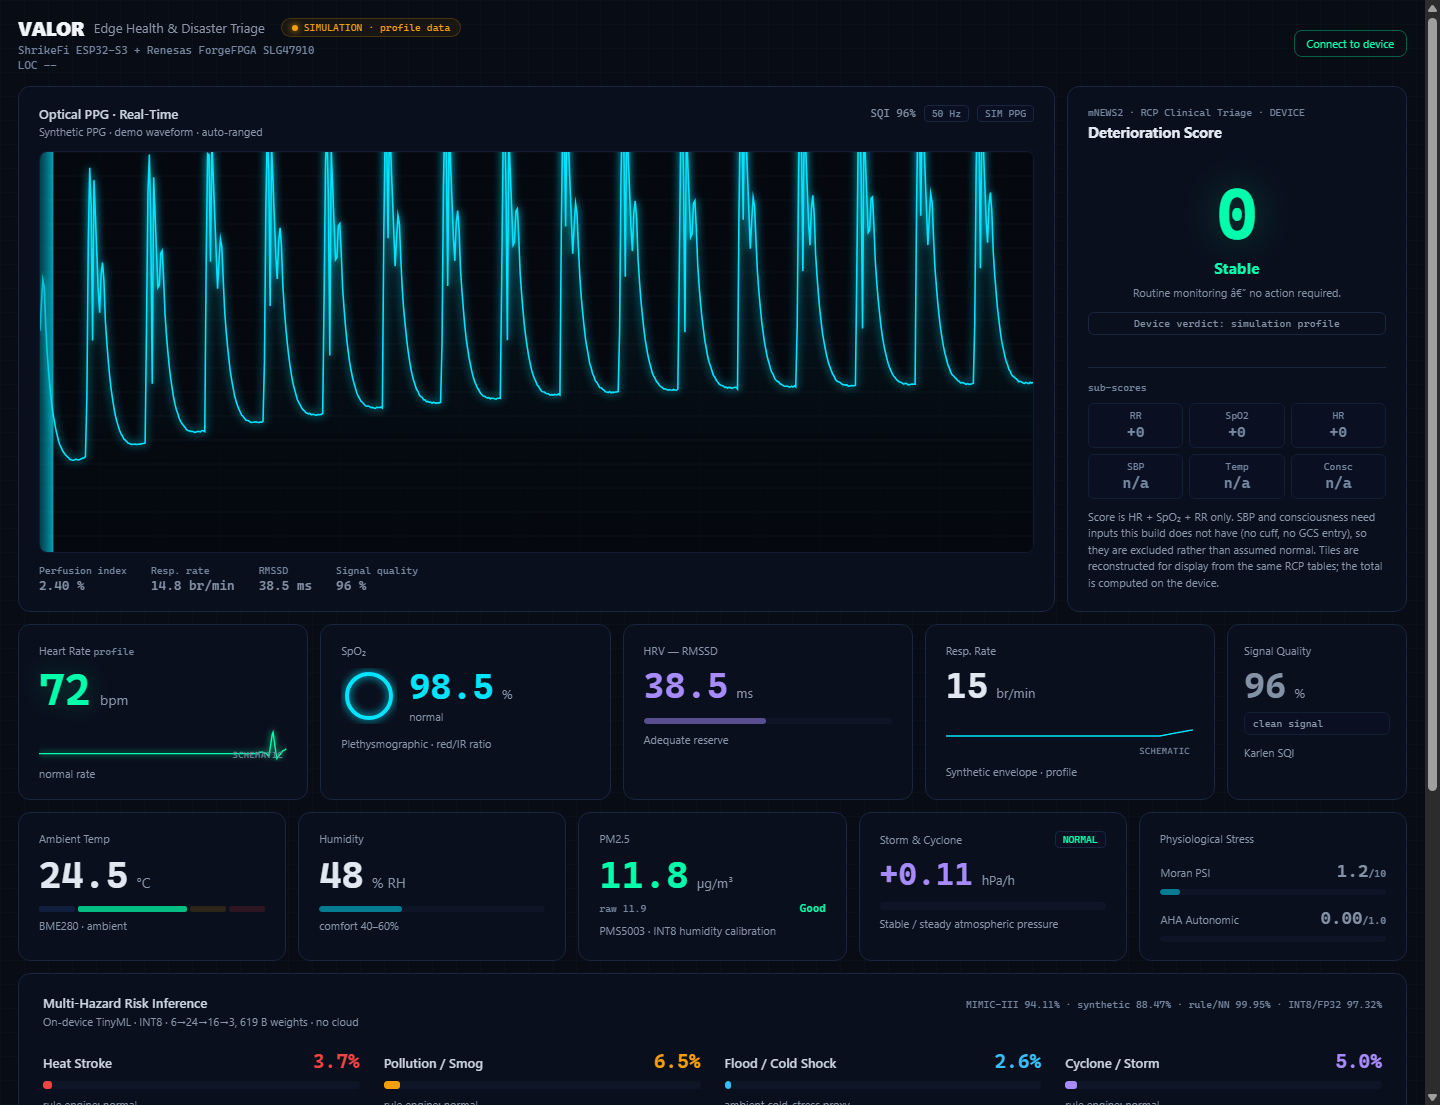
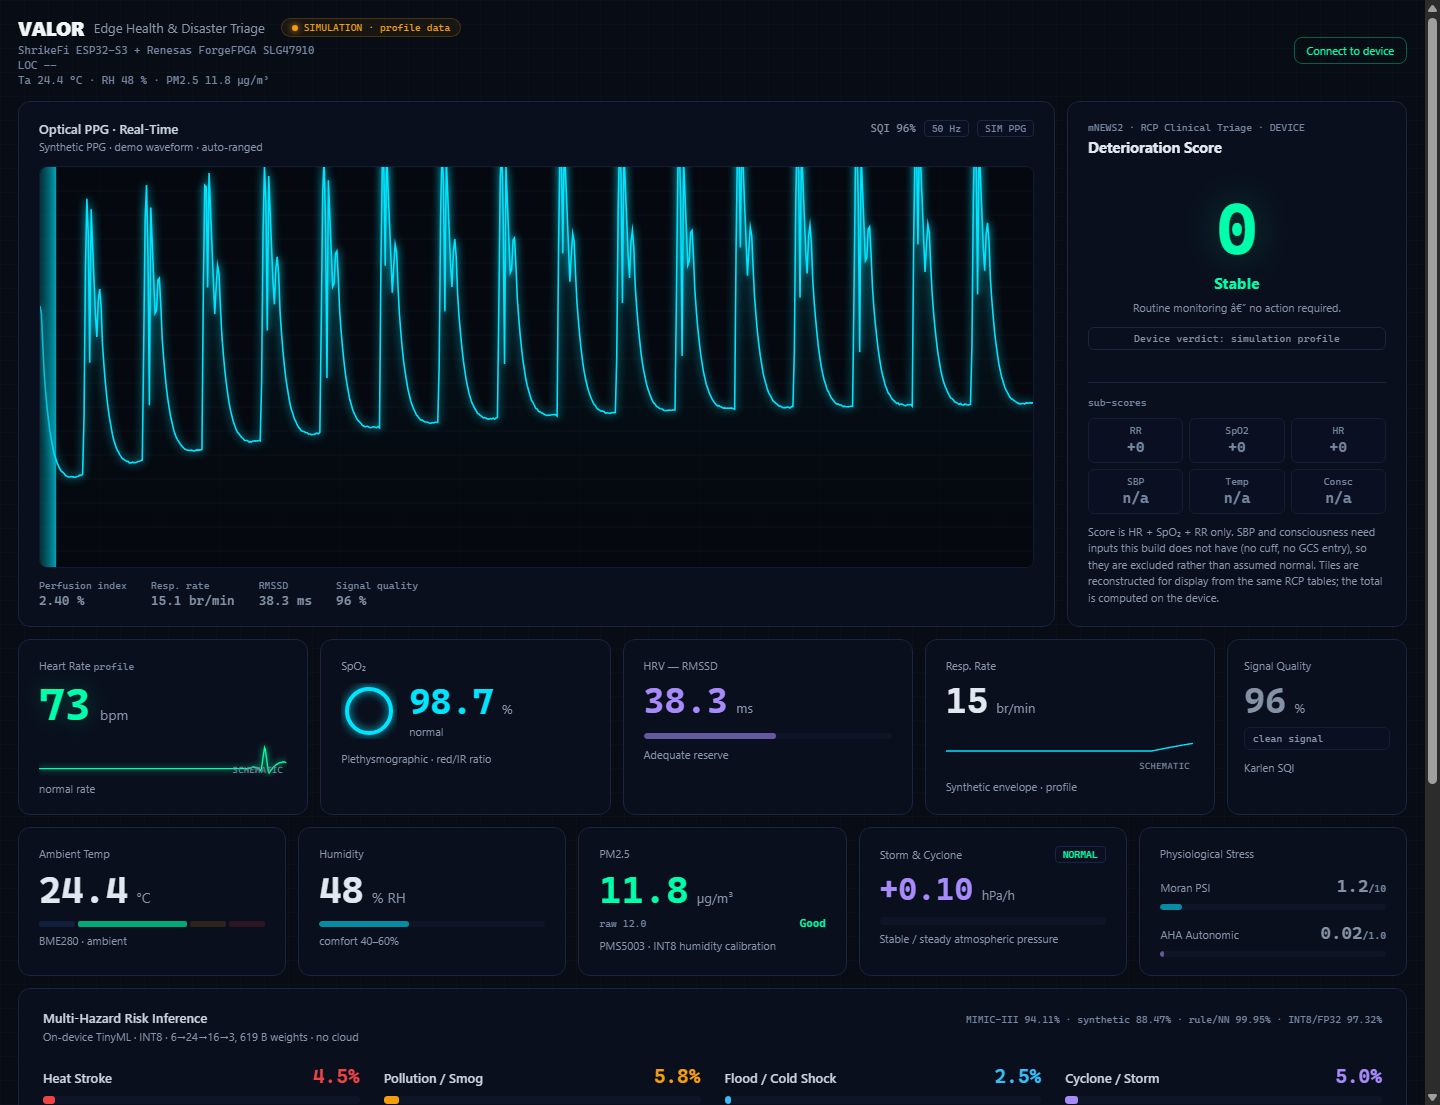
fix(dashboard): keep environment visible without contact
The firmware sends normal telemetry with HR=0 when ambient sensors are valid, so infer contact from a real pulse/SQI rather than packet presence. Add a compact Ta/RH/PM2.5 header strip and put those values in the no-contact scope overlay, so the environmental readings remain visible when the full cards are below the fold. Add an ambient no-finger regression case and regenerate screenshots.

diff --git a/firmware/shrikefi/dashboard/valor_dashboard.html b/firmware/shrikefi/dashboard/valor_dashboard.html
@@ -3,7 +3,7 @@
 <head>
 <meta charset="UTF-8">
 <meta name="viewport" content="width=device-width, initial-scale=1">
-<meta http-equiv="Content-Security-Policy" content="default-src 'none'; script-src 'sha256-mglj+asDTPrV0DS4ABjj38s7ah6EJvG1LTV9+BrB4Ms='; style-src 'unsafe-inline'; connect-src 'self'; form-action 'self'; base-uri 'none'; object-src 'none'">
+<meta http-equiv="Content-Security-Policy" content="default-src 'none'; script-src 'sha256-A1HRmsD2lRZmOHktdqXcePeSnKUdaW+9ZrS9CiJ2fF4='; style-src 'unsafe-inline'; connect-src 'self'; form-action 'self'; base-uri 'none'; object-src 'none'">
 <title>VALOR â€” Edge Health &amp; Disaster Triage</title>
 <!--
   VALOR dashboard â€” single self-contained file.
@@ -195,6 +195,8 @@
   .unit { font-size: 13px; color: var(--text-dim); margin-left: 4px; }
 
   /* â”€â”€ NEWS2 â”€â”€â”€â”€â”€â”€â”€â”€â”€â”€â”€â”€â”€â”€â”€â”€â”€â”€â”€â”€â”€â”€â”€â”€â”€â”€â”€â”€â”€â”€â”€â”€â”€â”€â”€â”€â”€â”€â”€â”€â”€â”€â”€â”€â”€â”€â”€â”€â”€â”€â”€â”€â”€â”€â”€â”€ */
+  .news2-card { padding: 20px; display: flex; flex-direction: column; gap: 16px; }
+  .news2-hero { text-align: center; padding: 20px 0 16px; }
   .news2-score { font-family: var(--mono); font-size: 72px; font-weight: 900; line-height: 1; }
   .news2-label { margin-top: 8px; font-size: 15px; font-weight: 700; letter-spacing: 0.02em; }
   .news2-sub   { margin-top: 6px; font-size: 11px; color: var(--text-mid); line-height: 1.6; padding: 0 8px; }
@@ -254,6 +256,21 @@
     }
   }
 
+  @media (max-height: 760px) {
+    body { padding-top: 10px; }
+    .row { gap: 8px; margin-bottom: 8px; }
+    .row-1 { align-items: start; }
+    .ppg-card .scope-frame { flex: 0 0 180px; min-height: 180px; }
+    .news2-card { padding: 14px; gap: 10px; }
+    .news2-hero { padding: 10px 0 8px; }
+    .news2-score { font-size: 48px; }
+    .news2-sub { font-size: 10px; }
+    #n2-note { font-size: 10px; line-height: 1.35; }
+    .device-verdict { margin-top: 6px; padding: 3px 6px; }
+    .subscore { padding: 4px 3px; }
+    .subscore-grid { gap: 4px; }
+  }
+
   @media (max-width: 1180px) {
     .row-1 { grid-template-columns: 1fr; }
     .row-2 { grid-template-columns: 1fr 1fr 1fr; }
@@ -301,6 +318,7 @@
     </div>
     <div class="board-sub">ShrikeFi ESP32-S3 + Renesas ForgeFPGA SLG47910</div>
     <div class="board-sub" id="v-loc" style="margin-top:2px">LOC --</div>
+    <div class="board-sub" id="v-env" style="margin-top:2px">Ta -- · RH -- · PM2.5 --</div>
   </div>
   <div class="controls">
     <button type="button" id="btn-connect" class="primary">Connect to device</button>
@@ -340,12 +358,12 @@
     </div>
   </div>
 
-  <div class="card" style="padding:20px;display:flex;flex-direction:column;gap:16px">
+  <div class="card news2-card">
     <div>
       <div class="faint" style="margin-bottom:4px">mNEWS2 &middot; RCP Clinical Triage &middot; DEVICE</div>
       <div style="font-size:15px;font-weight:700;color:var(--text);letter-spacing:-0.015em">Deterioration Score</div>
     </div>
-    <div style="text-align:center;padding:20px 0 16px">
+    <div class="news2-hero">
       <div class="news2-score" id="n2-score">0</div>
       <div class="news2-label" id="n2-label">Stable</div>
       <div class="news2-sub" id="n2-sub"></div>
@@ -853,10 +871,20 @@ function makePPG() {
     ctx.shadowBlur = 0;
 
     if (noContact) {
+      const ta = (isFinite(V.temp) && V.temp >= -40 && V.temp <= 85)
+        ? V.temp.toFixed(1) + ' °C' : '--';
+      const rh = (isFinite(V.hum) && V.hum >= 0 && V.hum <= 100)
+        ? V.hum.toFixed(0) + ' %' : '--';
+      const pm = (isFinite(V.pmCal) && V.pmCal > 0)
+        ? V.pmCal.toFixed(1) + ' \u00b5g/m\u00b3' : '--';
       ctx.fillStyle = 'rgba(245,158,11,0.9)';
       ctx.font = '12px ' + getComputedStyle(document.body).fontFamily;
+      ctx.textAlign = 'center';
+      ctx.fillText('NO CONTACT — ambient IR (not a pulse)', w / 2, h / 2 - 16);
+      ctx.fillStyle = 'rgba(203,213,225,0.9)';
+      ctx.font = '11px ' + getComputedStyle(document.body).fontFamily;
+      ctx.fillText('Ta ' + ta + ' · RH ' + rh + ' · PM2.5 ' + pm, w / 2, h / 2 + 8);
       ctx.textAlign = 'left';
-      ctx.fillText('NO CONTACT — ambient IR (not a pulse)', 12, 20);
     }
 
     /* sweep */
@@ -1375,6 +1403,7 @@ function renderIdle() {
   sp.textContent = 'waiting for signal';
   sp.className = 'pill';
 
+  $('v-env').textContent = 'Ta -- · RH -- · PM2.5 --';
   $('v-temp').textContent = D; $('v-temp').style.color = 'var(--text-faint)';
   [...$('temp-band').children].forEach((b) => { b.className = ''; });
   $('v-hum').textContent = D;  $('v-hum').style.color = 'var(--text-faint)';
@@ -1585,6 +1614,14 @@ function render() {
   $('pm-raw').textContent = 'raw ' + V.pmRaw.toFixed(1);
   $('pm-label').textContent = aqi.label;
   $('pm-label').style.color = aqi.color;
+
+  /* Compact always-visible environment strip. The full cards are below the
+     fold on short screens; this keeps temperature/RH/PM2.5 visible even when
+     the finger is absent. */
+  const envTa = ambientValid ? V.temp.toFixed(1) + ' °C' : '--';
+  const envRh = humidityValid ? V.hum.toFixed(0) + ' %' : '--';
+  const envPm = (isFinite(V.pmCal) && V.pmCal > 0) ? V.pmCal.toFixed(1) + ' µg/m³' : '--';
+  $('v-env').textContent = 'Ta ' + envTa + ' · RH ' + envRh + ' · PM2.5 ' + envPm;
 
   const psiColor = V.psi > 7 ? C.crimson : V.psi > 4 ? C.amber : C.mid;
   $('psi-val').innerHTML = V.psi.toFixed(1) +
@@ -1814,7 +1851,6 @@ function handleLine(line) {
       if (k.PM25) { V.pmCal = num(k.PM25); V.pmRaw = num(k.PM25); }
       return;
     }
-    V.contact = true;   /* normal or ACQUIRING telemetry means tissue contact */
     const k = parseKV(line.replace('[TELEMETRY]', ''));
     if (k.HR)    V.hr   = num(k.HR);
     if (k.SPO2)  V.spo2 = num(k.SPO2);
@@ -1824,6 +1860,10 @@ function handleLine(line) {
     if (k.RRDEPTH) V.rrDepth = num(k.RRDEPTH);
     if (k.PI)    V.pi   = num(k.PI);
     if (k.SQI)   V.sqi  = num(k.SQI) * 100;
+    /* The firmware sends a normal telemetry line even with no finger when
+       ambient sensors are valid. Infer tissue contact from a real pulse/signal,
+       not from the mere presence of a packet. */
+    V.contact = (V.hr > 0 || V.sqi > 0);
     if (k.TEMP)  V.temp = num(k.TEMP);
     if (k.HUM)   V.hum  = num(k.HUM);
     if (k.PM25)  { V.pmCal = num(k.PM25); V.pmRaw = num(k.PM25); }

diff --git a/firmware/shrikefi/dashboard/verify_dashboard.py b/firmware/shrikefi/dashboard/verify_dashboard.py
@@ -54,6 +54,8 @@ window.onerror = function (m) { window.__err = String(m); };
       handleLine('[TELEMETRY] NO_FINGER,TEMP=25.0,HUM=50.0,PM25=12.0');
     } else if (new URLSearchParams(location.search).get('case') === 'sensor_missing') {
       handleLine('[TELEMETRY] NO_FINGER,TEMP=-100.0,HUM=-1.0,PM25=12.0');
+    } else if (new URLSearchParams(location.search).get('case') === 'ambient') {
+      handleLine('[TELEMETRY] HR=0.0,SPO2=0.0,RMSSD=0.0,TEMP=29.7,HUM=63.3,PM25=86.6,RR=0.0,SQI=0.00,RRDEPTH=0.0,RRCONF=0.00,PI=0.00');
     } else if (new URLSearchParams(location.search).get('case') === 'pi') {
       handleLine('[TELEMETRY] HR=72.0,SPO2=98.0,RMSSD=42.0,TEMP=25.0,HUM=50.0,PM25=12.0,RR=15.0,SQI=0.90,RRDEPTH=42.5,RRCONF=0.80,PI=3.21');
     } else {
@@ -84,8 +86,8 @@ window.onerror = function (m) { window.__err = String(m); };
       histSub: txt('hist-sub'), histSpan: txt('hist-span'),
       histExport: txt('hist-export'),
       histExportDisabled: document.getElementById('hist-export').disabled,
-      scopeSrc: txt('scope-src'),
-      temp: txt('v-temp'),
+      scopeSrc: txt('scope-src'), envStrip: txt('v-env'),
+      temp: txt('v-temp'), hum: txt('v-hum'), pm: txt('v-pm'),
       status: txt('status-text').indexOf('NO DATA') === 0,
       sqi: txt('v-sqi'), sqiPill: txt('sqi-pill'), sqiNumCol: col('v-sqi'),
       histMeanHr: txt('h-mean-hr'),
@@ -180,7 +182,7 @@ def check(case, r, expect):
 
 
 failures = []
-for case in ("zero", "healthy", "nofinger", "sensor_missing", "pi", "stale"):
+for case in ("zero", "healthy", "nofinger", "sensor_missing", "ambient", "pi", "stale"):
     try:
         r = render(case)
     except (RuntimeError, json.JSONDecodeError) as e:
@@ -221,6 +223,12 @@ for case in ("zero", "healthy", "nofinger", "sensor_missing", "pi", "stale"):
         expect = {"hr": "--", "temp": "25.0"}
     elif case == "sensor_missing":
         expect = {"hr": "--", "temp": "--"}
+    elif case == "ambient":
+        expect = {
+            "hr": "--", "temp": "29.7", "hum": "63", "pm": "86.6",
+            "scopeSrc": "AMBIENT",
+            "envStrip": "Ta 29.7 \u00b0C \u00b7 RH 63 % \u00b7 PM2.5 86.6 \u00b5g/m\u00b3",
+        }
     elif case == "pi":
         expect = {
             "pi": "3.21 %",

diff --git a/firmware/shrikefi/dashboard/README.md b/firmware/shrikefi/dashboard/README.md
@@ -153,8 +153,11 @@ waveform.
 
 With **no finger**, the MAX30102 still streams ambient/reflected IR. The page
 now labels that state **AMBIENT**, draws the trace in grey, and overlays
-**“NO CONTACT — ambient IR (not a pulse)”**. It does not colour it as a red
-medical alarm, and SQI/HR/SpO₂ remain `--` until real contact telemetry arrives.
+**“NO CONTACT — ambient IR (not a pulse)”** plus the current Ta/RH/PM2.5. It
+does not colour it as a red medical alarm, and SQI/HR/SpO₂ remain `--` until
+real contact telemetry arrives. A compact **Ta / RH / PM2.5** strip under the
+header keeps the environmental readings visible even when the full cards are
+below the fold on a short screen.
 
 The **24-hour trajectory is a 24-slot RAM buffer since boot**, not a calendar
 history persisted in NVS. It fills only as uptime accumulates, and slot 0 is the

diff --git a/docs/REMAINING_WORK.md b/docs/REMAINING_WORK.md
@@ -682,7 +682,8 @@ were applied. `verify_dashboard.py` and `verify_softap_page.py` pass.
   uses an "hourly average" tooltip, and offers **EXPORT CSV** for the 24 rows.
 - No-finger live PPG is labelled **AMBIENT** with a grey trace and a
   **“NO CONTACT — ambient IR (not a pulse)”** overlay; it is not painted as a
-  red alarm.
+  red alarm. A compact Ta/RH/PM2.5 strip in the header keeps those values
+  visible when the full environmental cards are below the fold.
 - Accessibility: contrast raised for notes/units/n-a tiles, gate is a labelled
   dialog with focus on the first action, header has a persistent `h1`, status is
   a polite live region, history chart supports arrow keys, buttons have explicit
